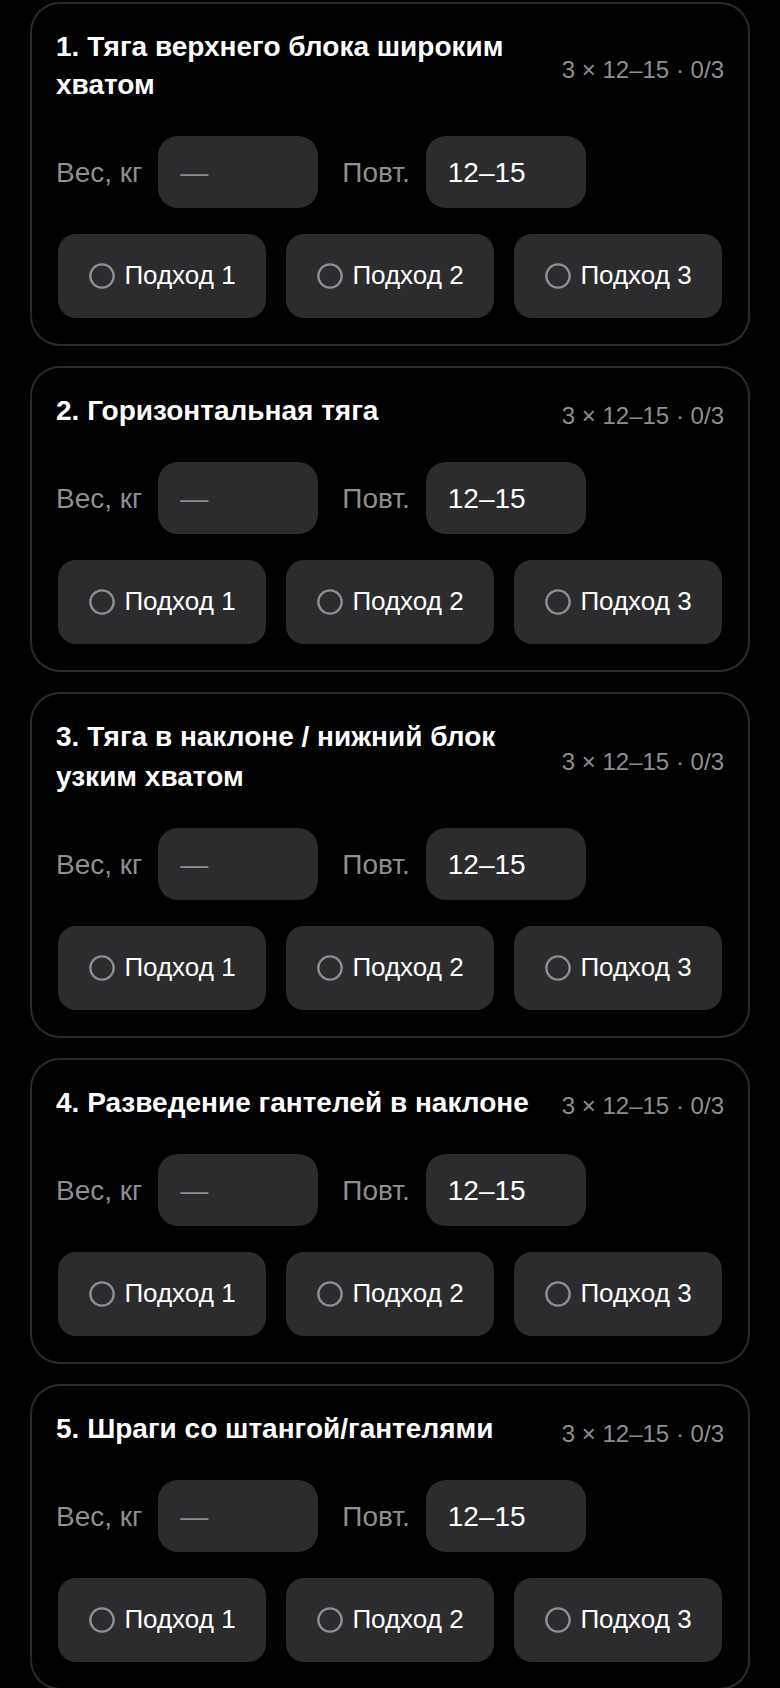
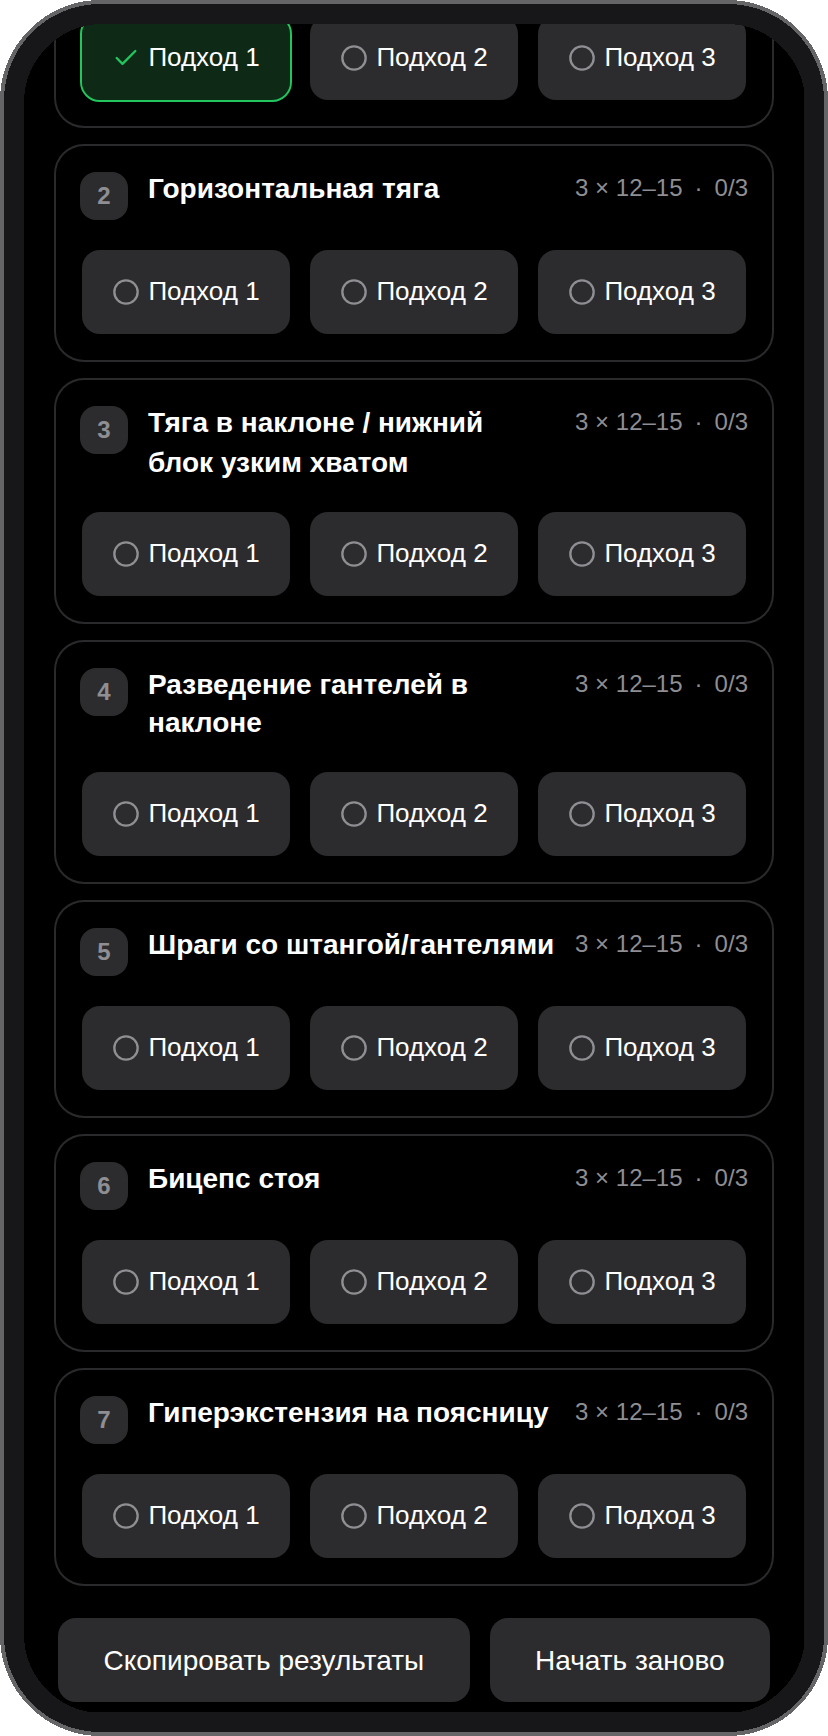
Refresh README screenshots with simple phone frames

diff --git a/README.md b/README.md
@@ -20,8 +20,6 @@
 
 ## Скриншоты
 
-Мобильный вид в браузере (390 × 844), не съёмка с физического телефона.
-
 <p>
   <img src="docs/screenshots/mobile-overview.png" alt="Главный экран и таймер отдыха" width="280" />
   <img src="docs/screenshots/mobile-exercises.png" alt="Карточки упражнений и отметки подходов" width="280" />
